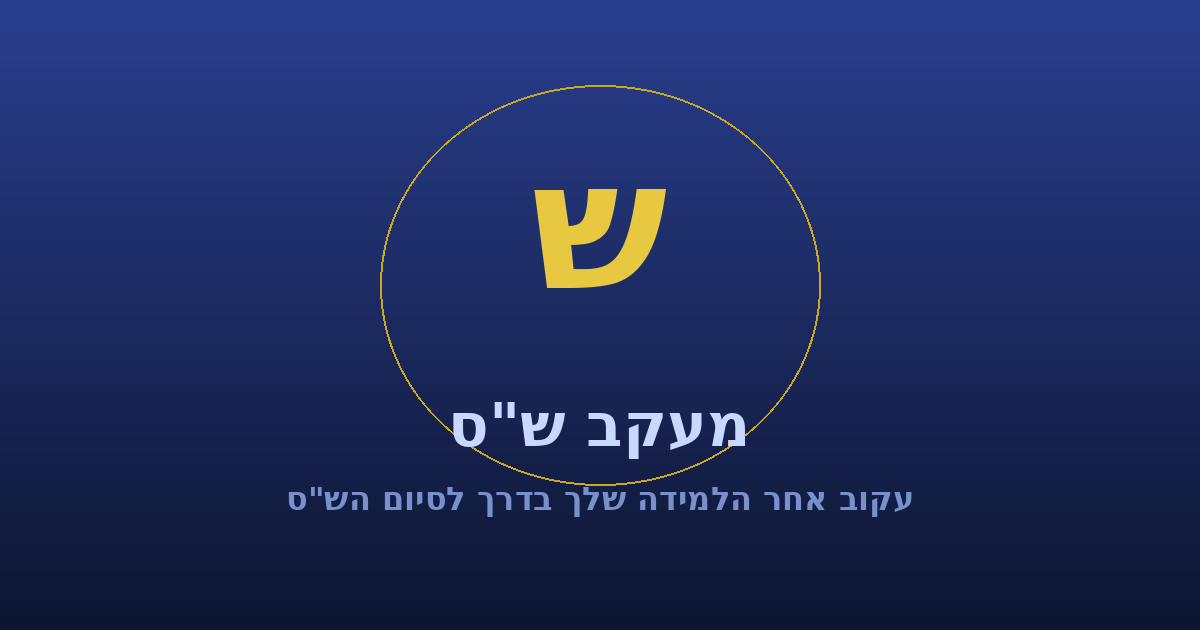
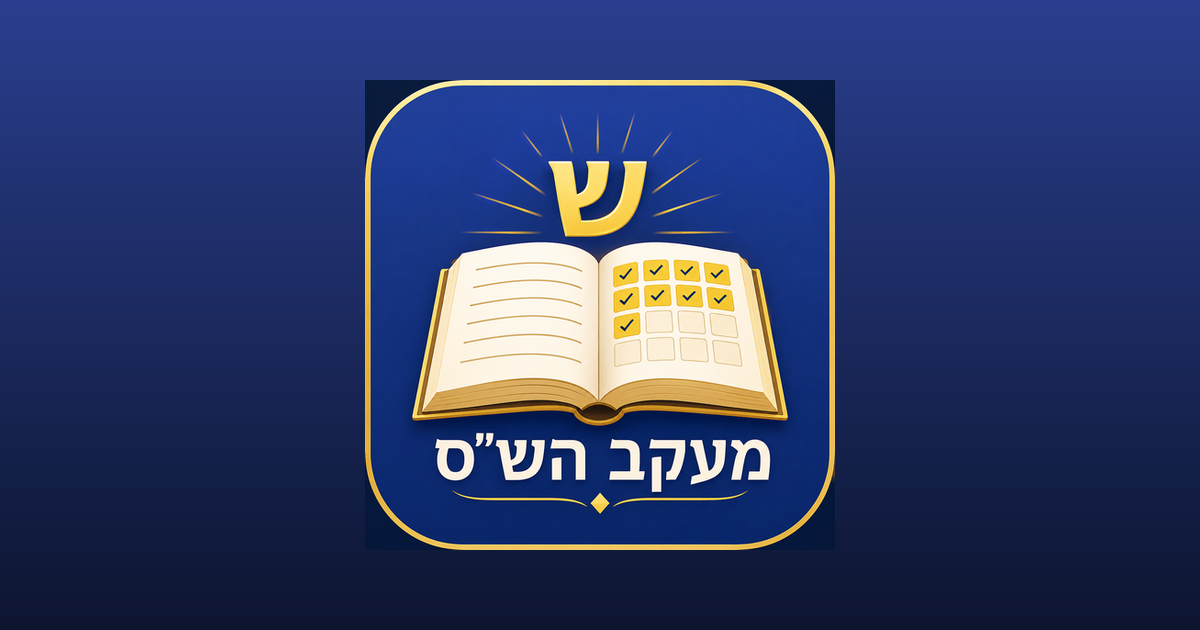
fix: שטיינסלץ עברית (?lang=he) + תמונת preview חדשה לוואטספ + שם עקבי מעקב הש״ס

Changed region(s): [[0.2158, 0.1206, 0.7708, 0.8746]]

diff --git a/index.html b/index.html
@@ -10,7 +10,7 @@
 <title>מעקב הש״ס</title>
 <meta property="og:title" content="מעקב הש״ס">
 <meta property="og:description" content="עקוב אחר הלמידה שלך בדרך לסיום הש״ס הבבלי">
-<meta property="og:image" content="https://atz1800.github.io/shas-tracker/og-image.png">
+<meta property="og:image" content="https://atz1800.github.io/shas-tracker/og-image.png?v=2">
 <meta property="og:image:width" content="1200">
 <meta property="og:image:height" content="630">
 <meta property="og:type" content="website">
@@ -18,7 +18,7 @@
 <meta name="twitter:card" content="summary_large_image">
 <meta name="twitter:title" content="מעקב הש״ס">
 <meta name="twitter:description" content="עקוב אחר הלמידה שלך בדרך לסיום הש״ס הבבלי">
-<meta name="twitter:image" content="https://atz1800.github.io/shas-tracker/og-image.png">
+<meta name="twitter:image" content="https://atz1800.github.io/shas-tracker/og-image.png?v=2">
 
 <link rel="icon" type="image/png" sizes="192x192" href="icon-192.png">
 <link rel="apple-touch-icon" sizes="180x180" href="apple-touch-icon.png">
@@ -408,7 +408,7 @@ function App() {
             setBirthInput(b.length === 7 ? b + '-01' : b);
           } catch(e) {}
         }
-        document.title = 'מעקב שס · ' + (u.displayName || '');
+        document.title = 'מעקב הש״ס · ' + (u.displayName || '');
       }
       setLoading(false);
     });
@@ -422,7 +422,7 @@ function App() {
       }
     });
   }
-  function signOutUser() { const { auth, signOut } = window._fb; signOut(auth); window._shasDataLoaded = false; dataLoadedRef.current = false; setLearned({}); setJournal([]); setReviews({}); setReviewsMode({}); setStreakData(null); setNotes({}); setHard({}); setHardMode({}); setTargetDate(null); setTargetInput(''); setAgeInput(''); setBirthInput(''); document.title = 'מעקב שס'; }
+  function signOutUser() { const { auth, signOut } = window._fb; signOut(auth); window._shasDataLoaded = false; dataLoadedRef.current = false; setLearned({}); setJournal([]); setReviews({}); setReviewsMode({}); setStreakData(null); setNotes({}); setHard({}); setHardMode({}); setTargetDate(null); setTargetInput(''); setAgeInput(''); setBirthInput(''); document.title = 'מעקב הש״ס'; }
 
   function toggleAmud(tractate, daf, amud) {
     const k = amudKey(tractate, daf, amud);
@@ -671,7 +671,7 @@ function App() {
             </>) : (
               <div style={{ fontSize:'0.86rem', color:'#7a8aaa', fontStyle:'italic' }}>אז מה היעד שלך? <span style={{ color:'#4a67c8', cursor:'pointer', fontStyle:'normal', fontWeight:600 }} onClick={() => setTab('target')}>הגדר עכשיו ←</span></div>
             )}
-            {(() => { const dy = getTodayDafYomi(); if (!dy) return null; const tl = TRACTATE_LINKS[dy.tractate]; const lnk = tl ? 'https://www.sefaria.org.il/Steinsaltz_on_' + tl.sefaria + (tl.noDaf ? '' : '.' + dy.daf + 'a') : null; return lnk ? <a href={lnk} target="_blank" rel="noopener noreferrer" style={{ fontSize:'0.76rem', color:'#b45309', fontWeight:600, background:'#fffbef', border:'1px solid #f59e0b', borderRadius:6, padding:'0.16rem 0.55rem', whiteSpace:'nowrap', textDecoration:'none', display:'inline-flex', alignItems:'center', gap:'0.3rem' }}><Ic d={ICONS.cal} size={13} /> {dy.tractate} {HEB[dy.daf]} ↗</a> : null; })()}
+            {(() => { const dy = getTodayDafYomi(); if (!dy) return null; const tl = TRACTATE_LINKS[dy.tractate]; const lnk = tl ? 'https://www.sefaria.org.il/Steinsaltz_on_' + tl.sefaria + (tl.noDaf ? '' : '.' + dy.daf + 'a') + '?lang=he' : null; return lnk ? <a href={lnk} target="_blank" rel="noopener noreferrer" style={{ fontSize:'0.76rem', color:'#b45309', fontWeight:600, background:'#fffbef', border:'1px solid #f59e0b', borderRadius:6, padding:'0.16rem 0.55rem', whiteSpace:'nowrap', textDecoration:'none', display:'inline-flex', alignItems:'center', gap:'0.3rem' }}><Ic d={ICONS.cal} size={13} /> {dy.tractate} {HEB[dy.daf]} ↗</a> : null; })()}
           </div>
 
           <div style={{ position:'relative', marginBottom:'1.2rem' }}>
@@ -710,7 +710,7 @@ function App() {
                           </div>
                           <div style={{ display:'flex', alignItems:'center', gap:'0.35rem', flexWrap:'wrap', justifyContent:'flex-end' }}>
                             {TRACTATE_LINKS[t.name] && (<>
-                              <a href={'https://www.sefaria.org.il/Steinsaltz_on_' + TRACTATE_LINKS[t.name].sefaria} target="_blank" rel="noopener noreferrer" onClick={e => e.stopPropagation()} style={{ fontSize:'0.62rem', textDecoration:'none', color:'#3d5499', background:'#eef2f9', borderRadius:99, padding:'0.14rem 0.5rem', fontFamily:"'Heebo',sans-serif", fontWeight:600 }}>שטיינ׳</a>
+                              <a href={'https://www.sefaria.org.il/Steinsaltz_on_' + TRACTATE_LINKS[t.name].sefaria + '?lang=he'} target="_blank" rel="noopener noreferrer" onClick={e => e.stopPropagation()} style={{ fontSize:'0.62rem', textDecoration:'none', color:'#3d5499', background:'#eef2f9', borderRadius:99, padding:'0.14rem 0.5rem', fontFamily:"'Heebo',sans-serif", fontWeight:600 }}>שטיינ׳</a>
                               <a href={'https://hebrewbooks.org/shas.aspx?mesechta=' + TRACTATE_LINKS[t.name].hb + '&daf=2&format=pdf'} target="_blank" rel="noopener noreferrer" onClick={e => e.stopPropagation()} style={{ fontSize:'0.62rem', textDecoration:'none', color:'#3d5499', background:'#eef2f9', borderRadius:99, padding:'0.14rem 0.5rem', fontFamily:"'Heebo',sans-serif", fontWeight:600 }}>דף</a>
                               <a href={'https://he.wikisource.org/wiki/' + TRACTATE_LINKS[t.name].ws} target="_blank" rel="noopener noreferrer" onClick={e => e.stopPropagation()} style={{ fontSize:'0.62rem', textDecoration:'none', color:'#3d5499', background:'#eef2f9', borderRadius:99, padding:'0.14rem 0.5rem', fontFamily:"'Heebo',sans-serif", fontWeight:600 }}>טקסט</a>
                               {TRACTATE_LINKS[t.name]?.sinaiMapId && (

diff --git a/sw.js b/sw.js
@@ -1,4 +1,4 @@
-const CACHE = 'shas-v16';
+const CACHE = 'shas-v17';
 const ASSETS = ['./', './index.html', './icon-192.png', './icon-512.png', './apple-touch-icon.png', './manifest.json'];
 
 self.addEventListener('install', e => {
